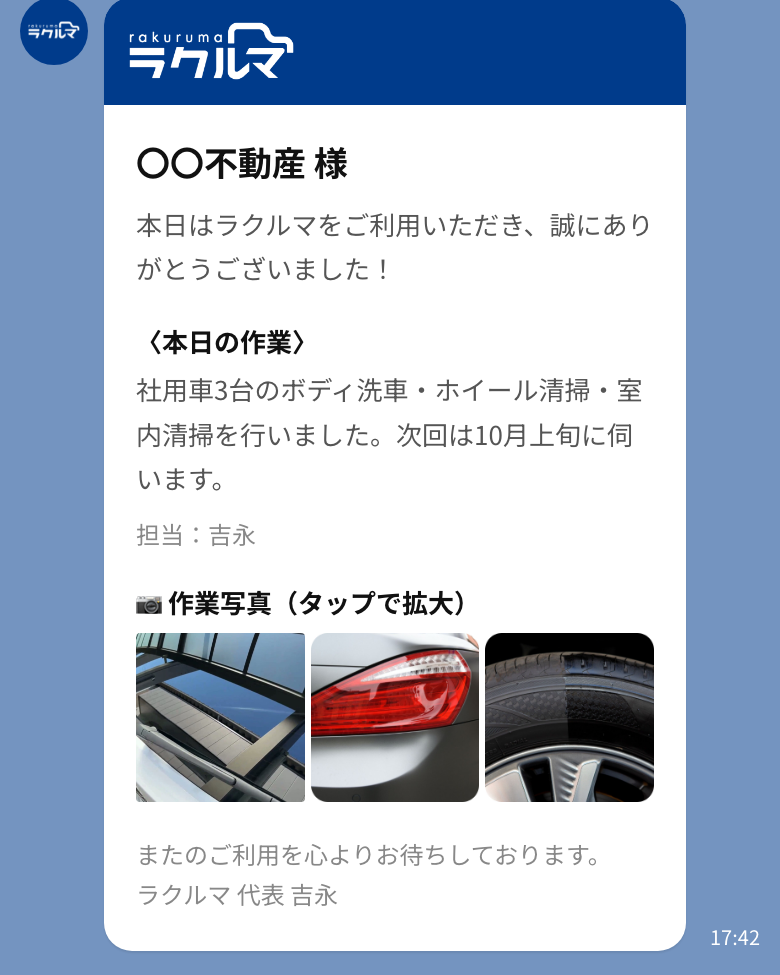
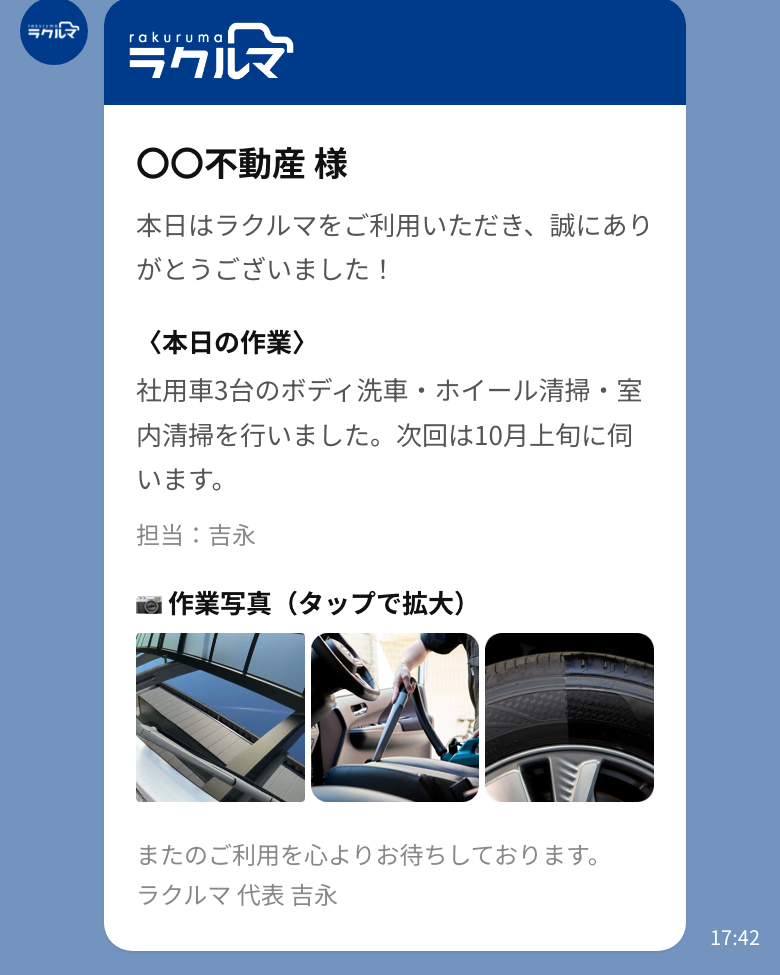
法人ページ：虎ノ門不動産様の社名（了承済み）／車内外込みを明記（FVサブ・料金見出し・事例・比較表）／港区の定価25,700円〜／REPORTを作業後写真のLINE報告とマイページの2枚に

Changed region(s): [[0.4, 0.6462, 0.6154, 0.8308]]

diff --git a/corporate/index.html b/corporate/index.html
@@ -17,7 +17,7 @@
   <link rel="preconnect" href="https://fonts.googleapis.com">
   <link rel="preconnect" href="https://fonts.gstatic.com" crossorigin>
   <link href="https://fonts.googleapis.com/css2?family=Noto+Sans+JP:wght@400;500;700;900&family=Montserrat:wght@500;600;700&display=swap" rel="stylesheet">
-  <link rel="stylesheet" href="/corporate/corporate_style.css?v=20260922k">
+  <link rel="stylesheet" href="/corporate/corporate_style.css?v=20260928a">
   <script type="text/javascript">
   (function(c,l,a,r,i,t,y){
     if(!/(^|\.)rakuruma\.com$/.test(location.hostname))return;
@@ -67,7 +67,7 @@
   <div class="hero-split">
     <div class="hero-content">
       <h1 class="hero-title">社用車の洗車も点検も、<br>会社の駐車場で。</h1>
-      <p class="hero-subtitle">社員が洗車に行く時間は、ゼロに。</p>
+      <p class="hero-subtitle">車内の清掃まで込み。<br>社員が洗車に行く時間は、ゼロに。</p>
       <div class="hero-cta">
         <a class="btn-line" href="https://lin.ee/r0BAZkR0" target="_blank" rel="noopener">LINEで台数と場所を送る</a>
         <a class="btn-primary" href="#contact">フォームでお見積りをもらう</a>
@@ -127,21 +127,14 @@
   <div class="section-inner">
     <p class="section-label">REPORT</p>
     <h2 class="section-title">作業のたびに写真、<br class="sp-br">季節ごとに点検の結果が届きます</h2>
-    <div class="rep-grid">
+    <div class="rep-grid rep-grid--2">
       <div class="rep" data-reveal>
-        <div class="rep-media rep-pair">
-          <figure><img src="/assets/images/service_wash_before.jpg" alt="洗車前" loading="lazy"><figcaption>BEFORE</figcaption></figure>
-          <figure><img src="/assets/images/service_wash_after.jpg" alt="洗車後" loading="lazy"><figcaption>AFTER</figcaption></figure>
-        </div>
-        <div class="rep-body"><span class="term-when">毎回</span><h3>作業写真（ビフォー／アフター）</h3><p>どの車を、どこまで洗ったかが写真で分かります。</p></div>
+        <div class="rep-media rep-media--wide"><img src="/corporate/report-line.png" alt="LINEで届く作業報告" loading="lazy" style="object-position:center 60%"></div>
+        <div class="rep-body"><span class="term-when">毎回</span><h3>作業後の写真と報告が、その日のうちにLINEで</h3><p>どの車を、どこまで洗ったかが分かります。<small>画面は見本のデータです。</small></p></div>
       </div>
       <div class="rep" data-reveal>
-        <div class="rep-media"><img src="/corporate/report-mypage.png" alt="マイページの「お車の状態」画面" loading="lazy"></div>
-        <div class="rep-body"><span class="term-when">年4回・季節の点検のとき</span><h3>車の状態と、交換の目安</h3><p>点検は年4回（3月・6月・9月・12月）。バッテリー・タイヤ・オイル・ワイパーの状態を、LINEのマイページでいつでも確認できます。<small>画面は見本のデータです。</small></p></div>
-      </div>
-      <div class="rep" data-reveal>
-        <div class="rep-media"><img src="/corporate/report-line.png" alt="LINEで届く作業報告" loading="lazy"></div>
-        <div class="rep-body"><span class="term-when">毎回</span><h3>次回の車検日も、こちらで把握</h3><p>作業内容と写真をその日のうちにお送りします。車検の時期が近づいたらご連絡します。車検はご希望のときだけ承ります。いつもの工場に出していただいても構いません。<small>画面は見本のデータです。</small></p></div>
+        <div class="rep-media rep-media--wide"><img src="/corporate/report-mypage.png" alt="マイページの「お車の状態」画面" loading="lazy"></div>
+        <div class="rep-body"><span class="term-when">年4回・季節の点検のとき</span><h3>車の状態と、交換の目安</h3><p>バッテリー・タイヤ・オイル・ワイパーの状態を、マイページでいつでも確認できます。次回の車検日もこちらで把握しています。<small>画面は見本のデータです。</small></p></div>
       </div>
     </div>
   </div>
@@ -167,6 +160,7 @@
       <div class="cmp-head"><span></span><span>これまで<em>社員が対応</em></span><span class="is-after">ラクルマ<em>すべておまかせ</em></span></div>
       <div class="cmp-row"><span class="ck"><svg class="ic ic-s" viewBox="0 0 24 24" fill="none" stroke="currentColor" stroke-width="1.6" stroke-linecap="round" stroke-linejoin="round" aria-hidden="true"><path d="M12 12m-9 0a9 9 0 1 0 18 0a9 9 0 1 0 -18 0"/><path d="M12 7v5l3 3"/></svg>洗車の手間</span><span class="cb"><i class="mk mk-x" aria-hidden="true"></i>社員が洗車場へ</span><span class="ca"><i class="mk mk-o" aria-hidden="true"></i>駐車場で完了</span></div>
       <div class="cmp-row"><span class="ck"><svg class="ic ic-s" viewBox="0 0 24 24" fill="none" stroke="currentColor" stroke-width="1.6" stroke-linecap="round" stroke-linejoin="round" aria-hidden="true"><path d="M7 17m-2 0a2 2 0 1 0 4 0a2 2 0 1 0 -4 0"/><path d="M17 17m-2 0a2 2 0 1 0 4 0a2 2 0 1 0 -4 0"/><path d="M5 17h-2v-6l2 -5h9l4 5h1a2 2 0 0 1 2 2v4h-2m-4 0h-6m-6 -6h15m-6 0v-5"/></svg>見た目</span><span class="cb"><i class="mk mk-x" aria-hidden="true"></i>汚れてから気づく</span><span class="ca"><i class="mk mk-o" aria-hidden="true"></i>いつもきれい</span></div>
+      <div class="cmp-row"><span class="ck"><svg class="ic ic-s" viewBox="0 0 24 24" fill="none" stroke="currentColor" stroke-width="1.6" stroke-linecap="round" stroke-linejoin="round" aria-hidden="true"><path d="M5 11a2 2 0 0 1 2 2v2h10v-2a2 2 0 1 1 4 0v4a2 2 0 0 1 -2 2h-14a2 2 0 0 1 -2 -2v-4a2 2 0 0 1 2 -2z"/><path d="M5 11v-5a3 3 0 0 1 3 -3h8a3 3 0 0 1 3 3v5"/><path d="M6 19v2"/><path d="M18 19v2"/></svg>車内</span><span class="cb"><i class="mk mk-x" aria-hidden="true"></i>手が回らない</span><span class="ca"><i class="mk mk-o" aria-hidden="true"></i>車内も込み・別料金なし</span></div>
       <div class="cmp-row"><span class="ck"><svg class="ic ic-s" viewBox="0 0 24 24" fill="none" stroke="currentColor" stroke-width="1.6" stroke-linecap="round" stroke-linejoin="round" aria-hidden="true"><path d="M6 4h-1a2 2 0 0 0 -2 2v3.5a5.5 5.5 0 0 0 11 0v-3.5a2 2 0 0 0 -2 -2h-1"/><path d="M8 15a6 6 0 1 0 12 0v-3"/><path d="M11 3v2"/><path d="M6 3v2"/><path d="M20 10m-2 0a2 2 0 1 0 4 0a2 2 0 1 0 -4 0"/></svg>車の状態</span><span class="cb"><i class="mk mk-x" aria-hidden="true"></i>誰も見ていない</span><span class="ca"><i class="mk mk-o" aria-hidden="true"></i>年4回、季節ごとに点検</span></div>
       <div class="cmp-row"><span class="ck"><svg class="ic ic-s" viewBox="0 0 24 24" fill="none" stroke="currentColor" stroke-width="1.6" stroke-linecap="round" stroke-linejoin="round" aria-hidden="true"><path d="M12 9v4"/><path d="M10.363 3.591l-8.106 13.534a1.914 1.914 0 0 0 1.636 2.871h16.214a1.914 1.914 0 0 0 1.636 -2.87l-8.106 -13.536a1.914 1.914 0 0 0 -3.274 0z"/><path d="M12 16h.01"/></svg>トラブル</span><span class="cb"><i class="mk mk-x" aria-hidden="true"></i>壊れてから</span><span class="ca"><i class="mk mk-o" aria-hidden="true"></i>壊れる前に</span></div>
       <div class="cmp-row"><span class="ck"><svg class="ic ic-s" viewBox="0 0 24 24" fill="none" stroke="currentColor" stroke-width="1.6" stroke-linecap="round" stroke-linejoin="round" aria-hidden="true"><path d="M4 7a2 2 0 0 1 2 -2h12a2 2 0 0 1 2 2v12a2 2 0 0 1 -2 2h-12a2 2 0 0 1 -2 -2z"/><path d="M16 3v4"/><path d="M8 3v4"/><path d="M4 11h16"/></svg>車検</span><span class="cb"><i class="mk mk-x" aria-hidden="true"></i>台ごとに持ち込む</span><span class="ca"><i class="mk mk-o" aria-hidden="true"></i>時期をお知らせ、代行も可</span></div>
@@ -183,9 +177,9 @@
       <article class="case" data-reveal>
         <div class="case-photo"><img src="/corporate/case-minato-1.jpg" alt="会社の地下駐車場で洗車後の社用車" loading="lazy"></div>
         <div class="case-body">
-          <p class="case-name">港区の不動産会社様</p>
+          <p class="case-name">虎ノ門不動産様（株式会社S&amp;Yリアルティ）</p>
           <p class="case-cars">社用車3台＋トゥクトゥク</p>
-          <div class="case-spec"><span class="k">頻度</span><span class="v">月1回・地下駐車場で1台ずつ</span><span class="k">料金</span><span class="v"><b>23,700</b>円／月〜<small>（3台・月1回プラン・定価）</small></span></div>
+          <div class="case-spec"><span class="k">頻度</span><span class="v">月1回・車内外・地下駐車場で1台ずつ</span><span class="k">料金</span><span class="v"><b>25,700</b>円／月〜<small>（3台・月1回プラン・定価）</small></span></div>
           <dl class="case-rows">
             <div class="case-row"><dt>きっかけ</dt><dd>社員が洗車に行くと、1時間以上戻ってこない</dd></div>
             <div class="case-row"><dt>変わったこと</dt><dd>社員の方が洗車に行くことがなくなりました。<b>2年以上ご利用中</b></dd></div>
@@ -197,7 +191,7 @@
         <div class="case-body">
           <p class="case-name">品川区の不動産会社様</p>
           <p class="case-cars">社用車2台</p>
-          <div class="case-spec"><span class="k">頻度</span><span class="v">週1回・お店の前で1台ずつ</span><span class="k">料金</span><span class="v"><b>30,000</b>円／月〜<small>（2台・月2回プラン・定価。週1回はお見積り）</small></span></div>
+          <div class="case-spec"><span class="k">頻度</span><span class="v">週1回・車内外・お店の前で1台ずつ</span><span class="k">料金</span><span class="v"><b>30,000</b>円／月〜<small>（2台・月2回プラン・定価。週1回はお見積り）</small></span></div>
           <dl class="case-rows">
             <div class="case-row"><dt>きっかけ</dt><dd>お客様を乗せる車を、いつもきれいにしておきたい</dd></div>
             <div class="case-row"><dt>変わったこと</dt><dd>「悪くなる前に教えてもらえるのが安心」。<b>車内のブルーレイプレーヤーの取付</b>もご依頼いただきました</dd></div>
@@ -237,8 +231,8 @@
 <section id="plan" class="plan-section">
   <div class="section-inner">
     <p class="section-label">PLAN</p>
-    <h2 class="section-title">1台あたりの料金</h2>
-    <p class="section-sub">全プランに室内清掃・年4回の点検・作業レポートが含まれます。同じ駐車場の複数台は、まとめて施工します。</p>
+    <h2 class="section-title">1台あたりの料金<br class="sp-br">（車内・車外とも込み）</h2>
+    <p class="section-sub">全プランに車内の清掃が含まれます。室内が別料金になることはありません。年4回の点検と作業レポートも込みです。同じ駐車場の複数台は、まとめて施工します。</p>
     <div class="price-table">
       <div class="price-head"><span>プラン</span><span>セダン・コンパクト<em>SMサイズ</em></span><span>SUV・ミニバン<em>LXサイズ</em></span></div>
       <div class="price-row">

diff --git a/corporate/corporate_style.css b/corporate/corporate_style.css
@@ -679,3 +679,8 @@ footer {
   .cta-mid-band { padding: 28px 18px; }
   .cta-mid-sub { font-size: 12px; }
 }
+
+/* ---------- REPORT 2枚・横長（2026-09-28） ---------- */
+.rep-grid--2 { grid-template-columns: 1fr 1fr; max-width: 820px; margin: 0 auto; }
+.rep-media--wide { aspect-ratio: 4 / 3; }
+@media (max-width: 860px) { .rep-grid--2 { grid-template-columns: 1fr; max-width: 440px; } }
